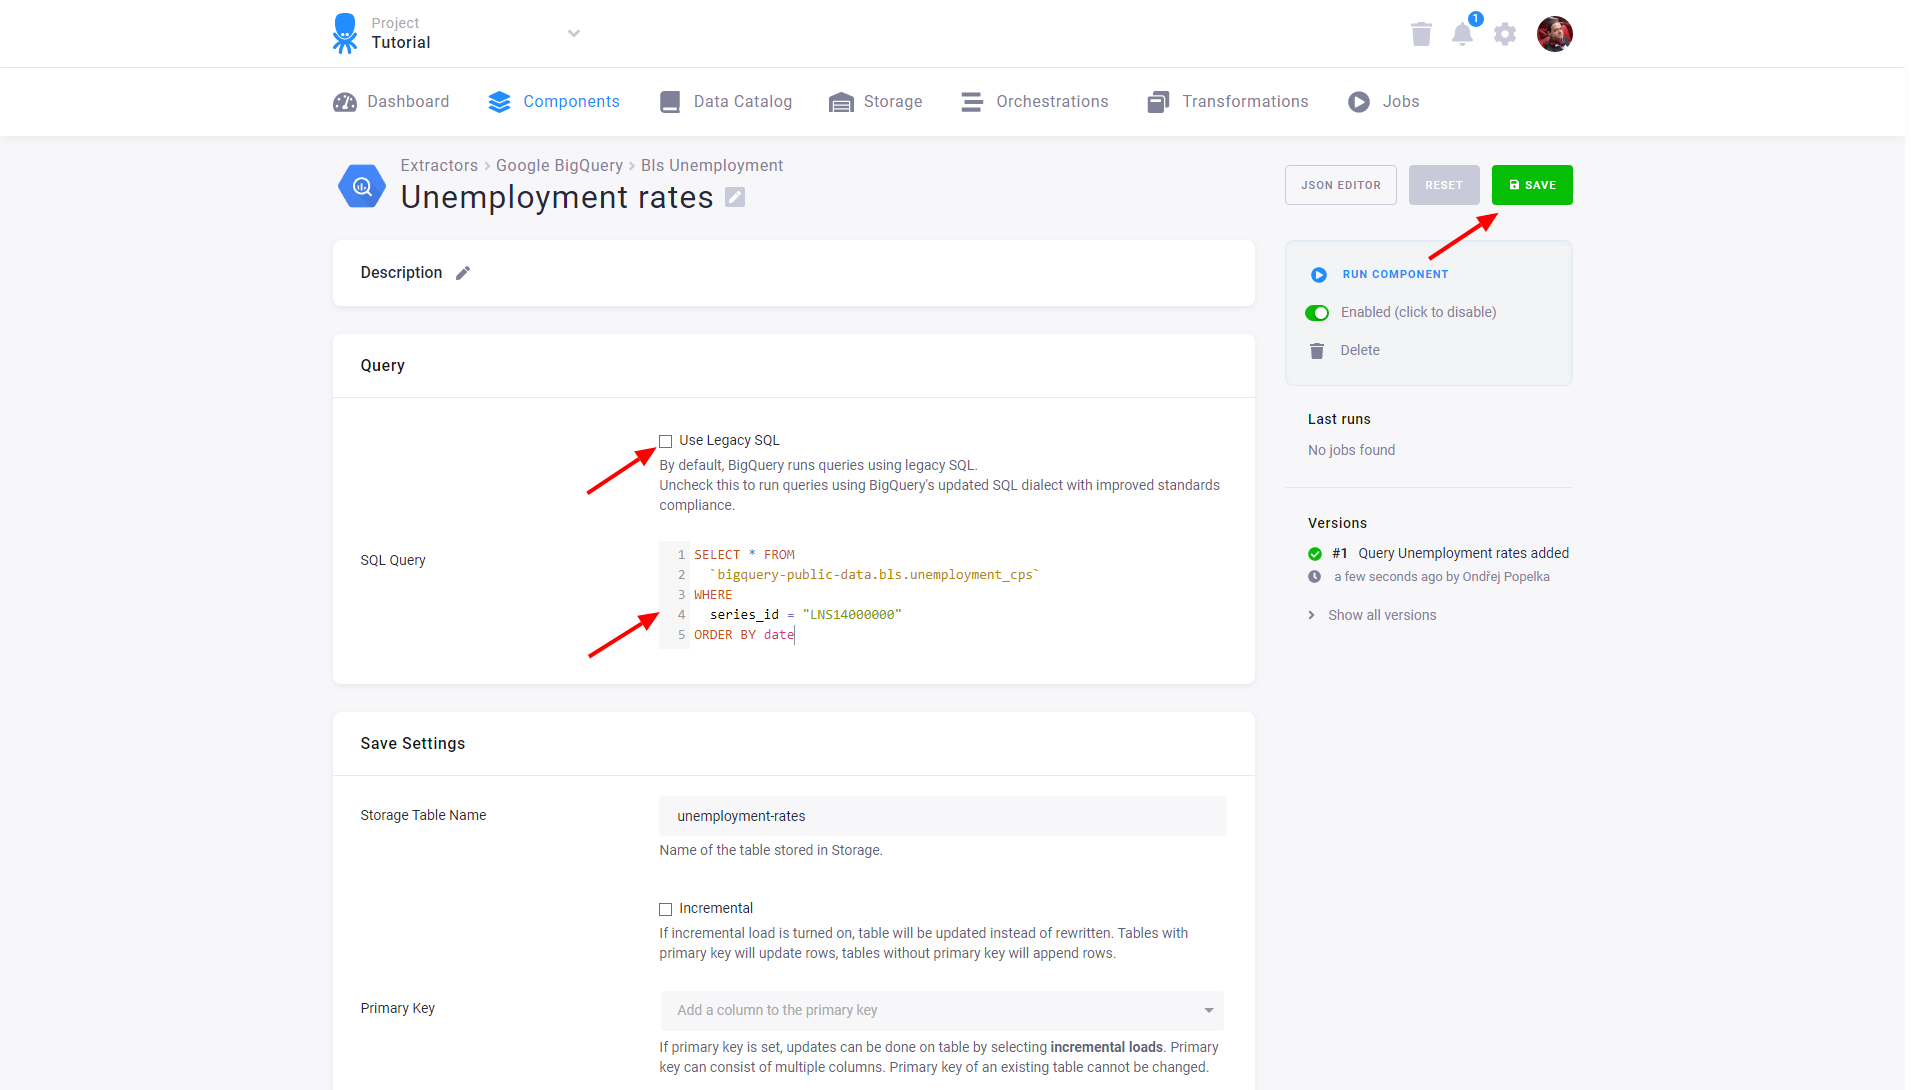
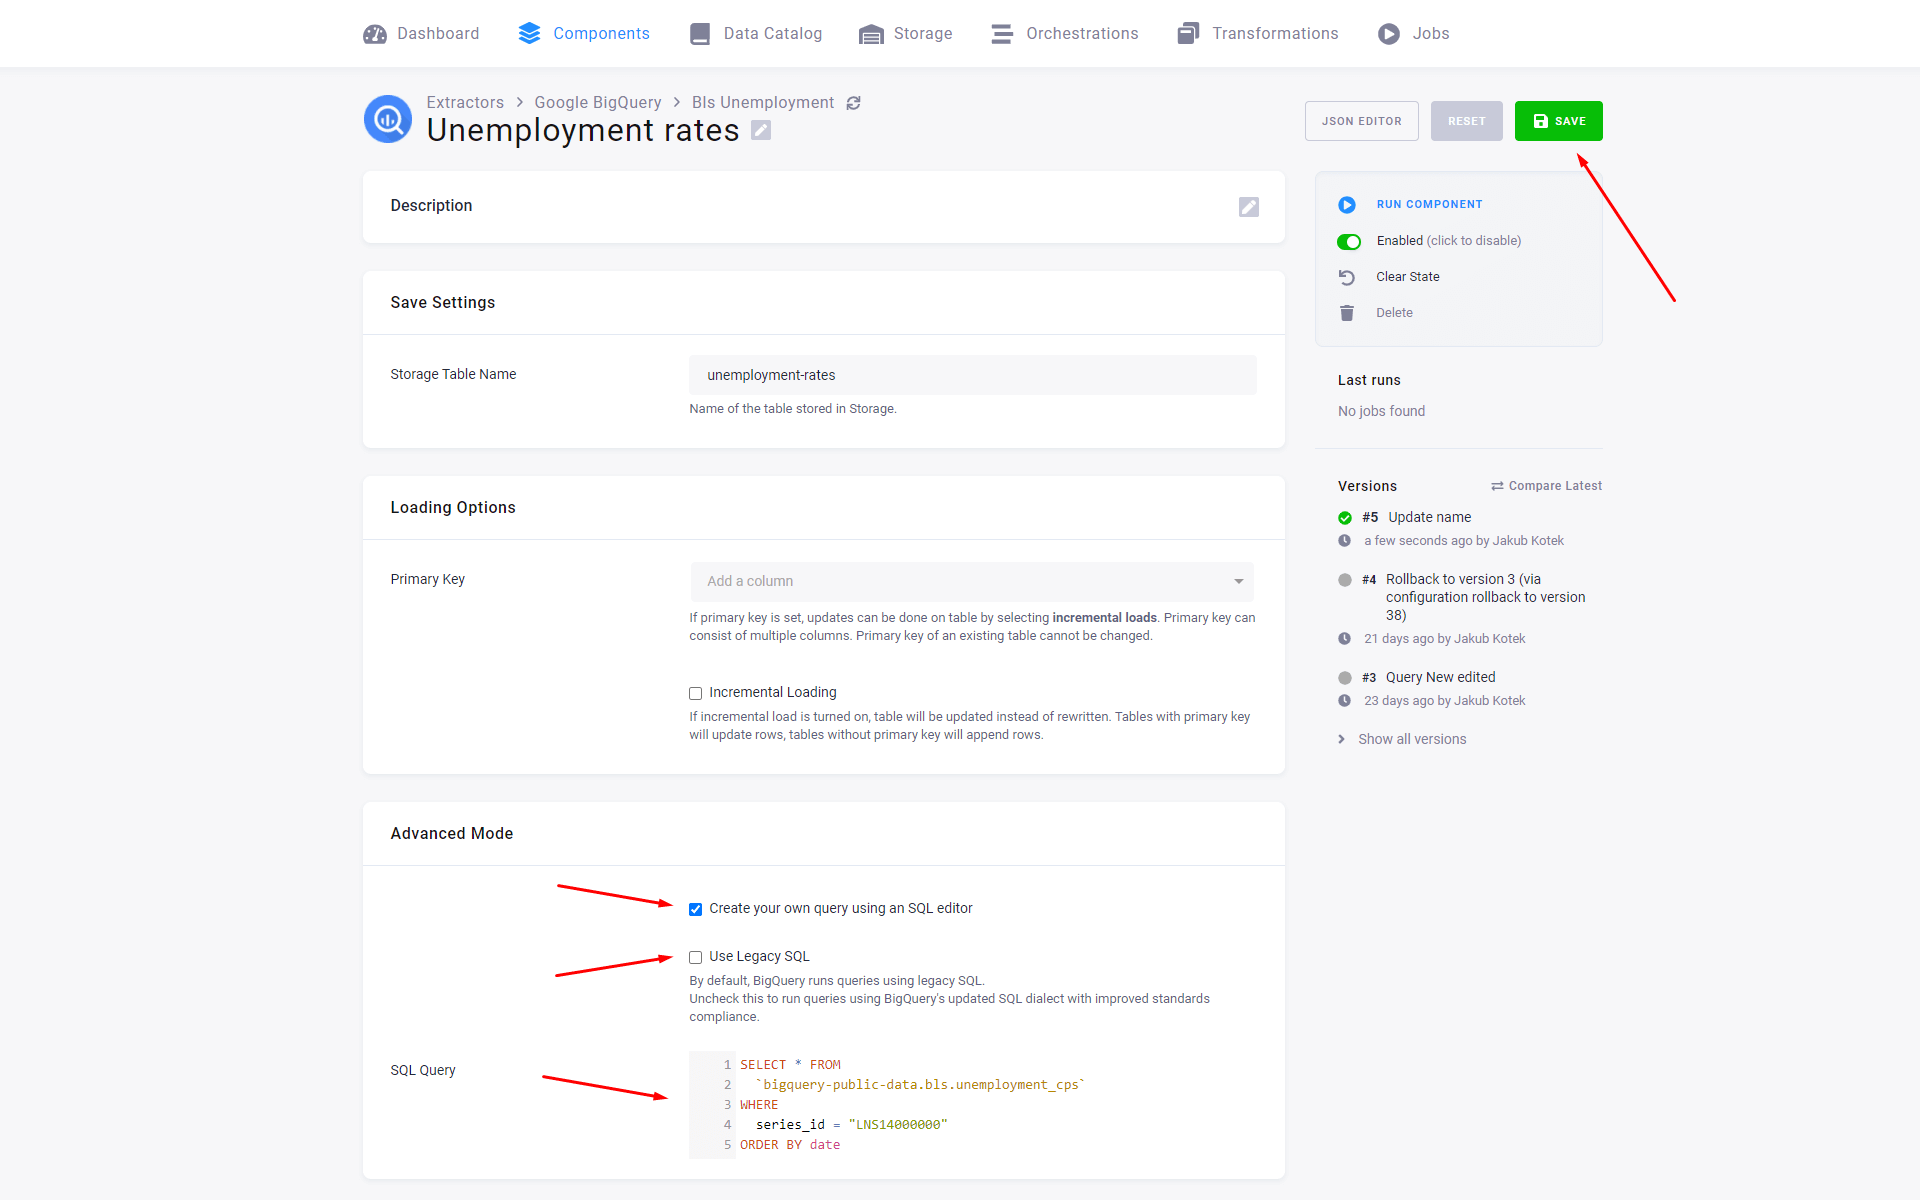
update docs

diff --git a/components/extractors/database/index.md b/components/extractors/database/index.md
@@ -32,12 +32,11 @@ have an [advanced mode](/components/extractors/database/sqldb/).
 
 ## NoSQL databases
 
-Unlike SQL databases, the extractors for a **NoSQL databases**, require a different configuration, see:
+Unlike SQL databases, the extractors for a **NoSQL databases**, require a different configuration (except [BigQuery Extractor](/components/extractors/database/bigquery/) for [BigQuery](https://cloud.google.com/bigquery/) database which is quite similar to SQL databases, also support [advanced mode](/components/extractors/database/sqldb/)), see:
+
 - [MongoDB Extractor](/components/extractors/database/mongodb/) for [MongoDB](https://www.mongodb.com/) database and [CosmosDB MongoDB API](https://docs.microsoft.com/en-us/azure/cosmos-db/mongodb-introduction).
-- [CosmosDB Extractor](/components/extractors/database/cosmosdb/)  for [CosmosDB SQL API](https://docs.microsoft.com/en-us/azure/cosmos-db/tutorial-query-sql-api).
-- [Azure Storage Table Extractor](/components/extractors/database/cosmosdb/)  for [Azure Table storage](https://azure.microsoft.com/en-us/services/storage/tables) and [Cosmos DB Table API](https://docs.microsoft.com/en-us/azure/cosmos-db/table-introduction).
-- [BigQuery Extractor](/components/extractors/database/bigquery/) for [BigQuery](https://cloud.google.com/bigquery/) database.
-    - It is also covered in the [Tutorial - Ad-hoc Data Analysis](/tutorial/ad-hoc/).
+- [CosmosDB Extractor](/components/extractors/database/cosmosdb/) for [CosmosDB SQL API](https://docs.microsoft.com/en-us/azure/cosmos-db/tutorial-query-sql-api).
+- [Azure Storage Table Extractor](/components/extractors/database/cosmosdb/) for [Azure Table storage](https://azure.microsoft.com/en-us/services/storage/tables) and [Cosmos DB Table API](https://docs.microsoft.com/en-us/azure/cosmos-db/table-introduction).
 
 ## Connecting to Database
 The connection to your internal database must be well secured. If you, or your system administrator, 

diff --git a/tutorial/ad-hoc/index.md b/tutorial/ad-hoc/index.md
@@ -126,7 +126,7 @@ Name the query, e.g., `Unemployment rates`:
 {: .image-popup}
 ![Screenshot - New Query Name](/tutorial/ad-hoc/ex-bigquery-9.png)
 
-Uncheck the *Use Legacy SQL* setting and paste the following in the *SQL Query* field:
+Check the *Create your own query using an SQL editor* and uncheck the *Use Legacy SQL* setting and paste the following in the *SQL Query* field:
 
 {% highlight sql %}
 SELECT * FROM
